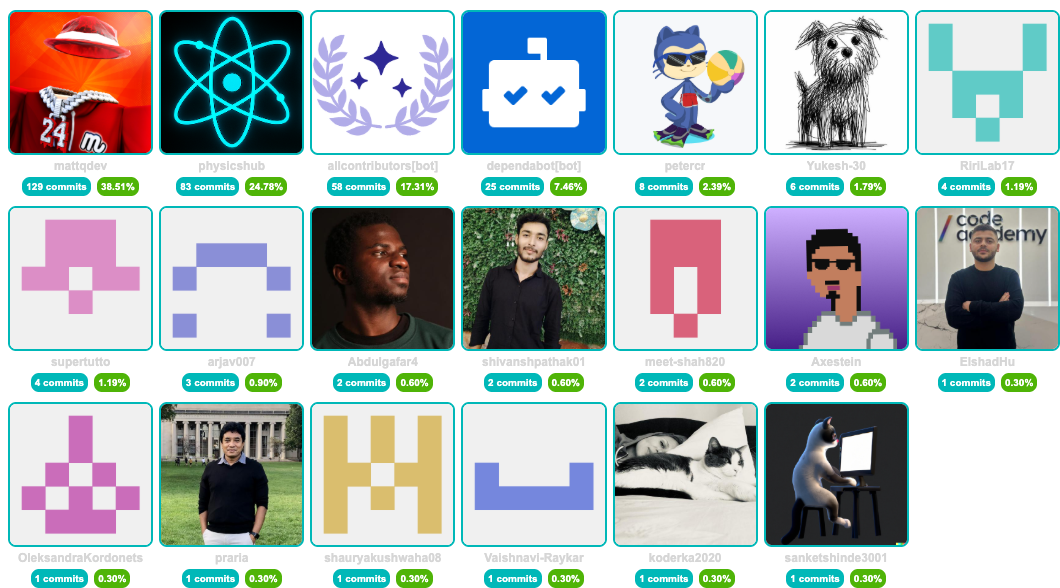
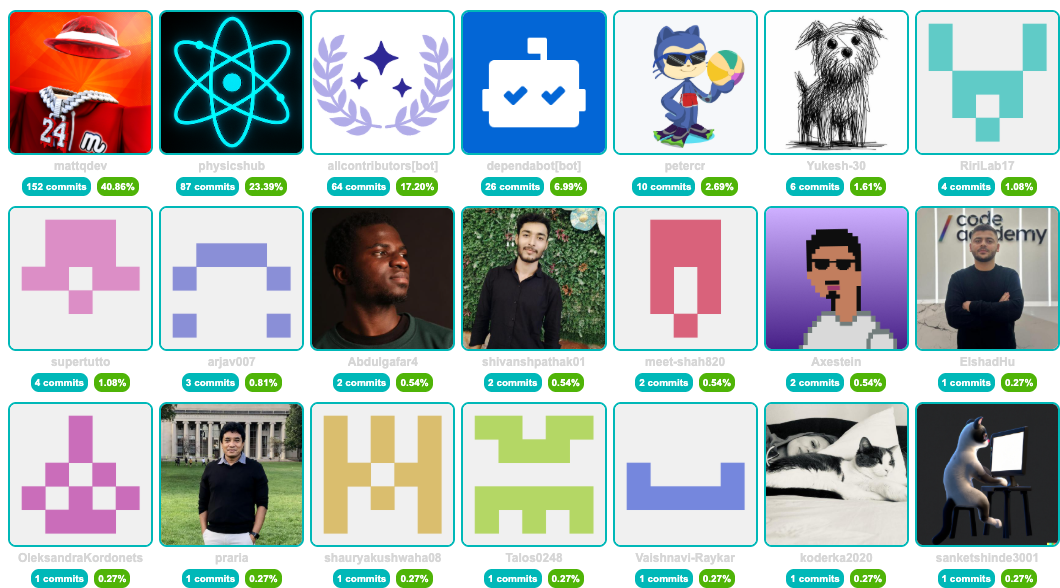
docs: updated contributors image

diff --git a/scripts/contributors/contributors.html b/scripts/contributors/contributors.html
@@ -4,10 +4,10 @@
         <h3>mattqdev</h3>
         <div class="container">
           <div class="commits">
-            <span>129 commits</span>
+            <span>152 commits</span>
           </div>
           <div class="percentage">
-            <span>38.51%</span>
+            <span>40.86%</span>
           </div>
         </div>
       </li>
@@ -17,10 +17,10 @@
         <h3>physicshub</h3>
         <div class="container">
           <div class="commits">
-            <span>83 commits</span>
+            <span>87 commits</span>
           </div>
           <div class="percentage">
-            <span>24.78%</span>
+            <span>23.39%</span>
           </div>
         </div>
       </li>
@@ -30,10 +30,10 @@
         <h3>allcontributors[bot]</h3>
         <div class="container">
           <div class="commits">
-            <span>58 commits</span>
+            <span>64 commits</span>
           </div>
           <div class="percentage">
-            <span>17.31%</span>
+            <span>17.20%</span>
           </div>
         </div>
       </li>
@@ -43,10 +43,10 @@
         <h3>dependabot[bot]</h3>
         <div class="container">
           <div class="commits">
-            <span>25 commits</span>
+            <span>26 commits</span>
           </div>
           <div class="percentage">
-            <span>7.46%</span>
+            <span>6.99%</span>
           </div>
         </div>
       </li>
@@ -56,10 +56,10 @@
         <h3>petercr</h3>
         <div class="container">
           <div class="commits">
-            <span>8 commits</span>
+            <span>10 commits</span>
           </div>
           <div class="percentage">
-            <span>2.39%</span>
+            <span>2.69%</span>
           </div>
         </div>
       </li>
@@ -72,7 +72,7 @@
             <span>6 commits</span>
           </div>
           <div class="percentage">
-            <span>1.79%</span>
+            <span>1.61%</span>
           </div>
         </div>
       </li>
@@ -85,7 +85,7 @@
             <span>4 commits</span>
           </div>
           <div class="percentage">
-            <span>1.19%</span>
+            <span>1.08%</span>
           </div>
         </div>
       </li>
@@ -98,7 +98,7 @@
             <span>4 commits</span>
           </div>
           <div class="percentage">
-            <span>1.19%</span>
+            <span>1.08%</span>
           </div>
         </div>
       </li>
@@ -111,7 +111,7 @@
             <span>3 commits</span>
           </div>
           <div class="percentage">
-            <span>0.90%</span>
+            <span>0.81%</span>
           </div>
         </div>
       </li>
@@ -124,7 +124,7 @@
             <span>2 commits</span>
           </div>
           <div class="percentage">
-            <span>0.60%</span>
+            <span>0.54%</span>
           </div>
         </div>
       </li>
@@ -137,7 +137,7 @@
             <span>2 commits</span>
           </div>
           <div class="percentage">
-            <span>0.60%</span>
+            <span>0.54%</span>
           </div>
         </div>
       </li>
@@ -150,7 +150,7 @@
             <span>2 commits</span>
           </div>
           <div class="percentage">
-            <span>0.60%</span>
+            <span>0.54%</span>
           </div>
         </div>
       </li>
@@ -163,7 +163,7 @@
             <span>2 commits</span>
           </div>
           <div class="percentage">
-            <span>0.60%</span>
+            <span>0.54%</span>
           </div>
         </div>
       </li>
@@ -176,7 +176,7 @@
             <span>1 commits</span>
           </div>
           <div class="percentage">
-            <span>0.30%</span>
+            <span>0.27%</span>
           </div>
         </div>
       </li>
@@ -189,7 +189,7 @@
             <span>1 commits</span>
           </div>
           <div class="percentage">
-            <span>0.30%</span>
+            <span>0.27%</span>
           </div>
         </div>
       </li>
@@ -202,7 +202,7 @@
             <span>1 commits</span>
           </div>
           <div class="percentage">
-            <span>0.30%</span>
+            <span>0.27%</span>
           </div>
         </div>
       </li>
@@ -215,7 +215,20 @@
             <span>1 commits</span>
           </div>
           <div class="percentage">
-            <span>0.30%</span>
+            <span>0.27%</span>
+          </div>
+        </div>
+      </li>
+
+      <li title="Talos0248">
+        <img src="https://avatars.githubusercontent.com/u/68732421?v=4" alt="Talos0248"/>
+        <h3>Talos0248</h3>
+        <div class="container">
+          <div class="commits">
+            <span>1 commits</span>
+          </div>
+          <div class="percentage">
+            <span>0.27%</span>
           </div>
         </div>
       </li>
@@ -228,7 +241,7 @@
             <span>1 commits</span>
           </div>
           <div class="percentage">
-            <span>0.30%</span>
+            <span>0.27%</span>
           </div>
         </div>
       </li>
@@ -241,7 +254,7 @@
             <span>1 commits</span>
           </div>
           <div class="percentage">
-            <span>0.30%</span>
+            <span>0.27%</span>
           </div>
         </div>
       </li>
@@ -254,7 +267,7 @@
             <span>1 commits</span>
           </div>
           <div class="percentage">
-            <span>0.30%</span>
+            <span>0.27%</span>
           </div>
         </div>
       </li></ul>
